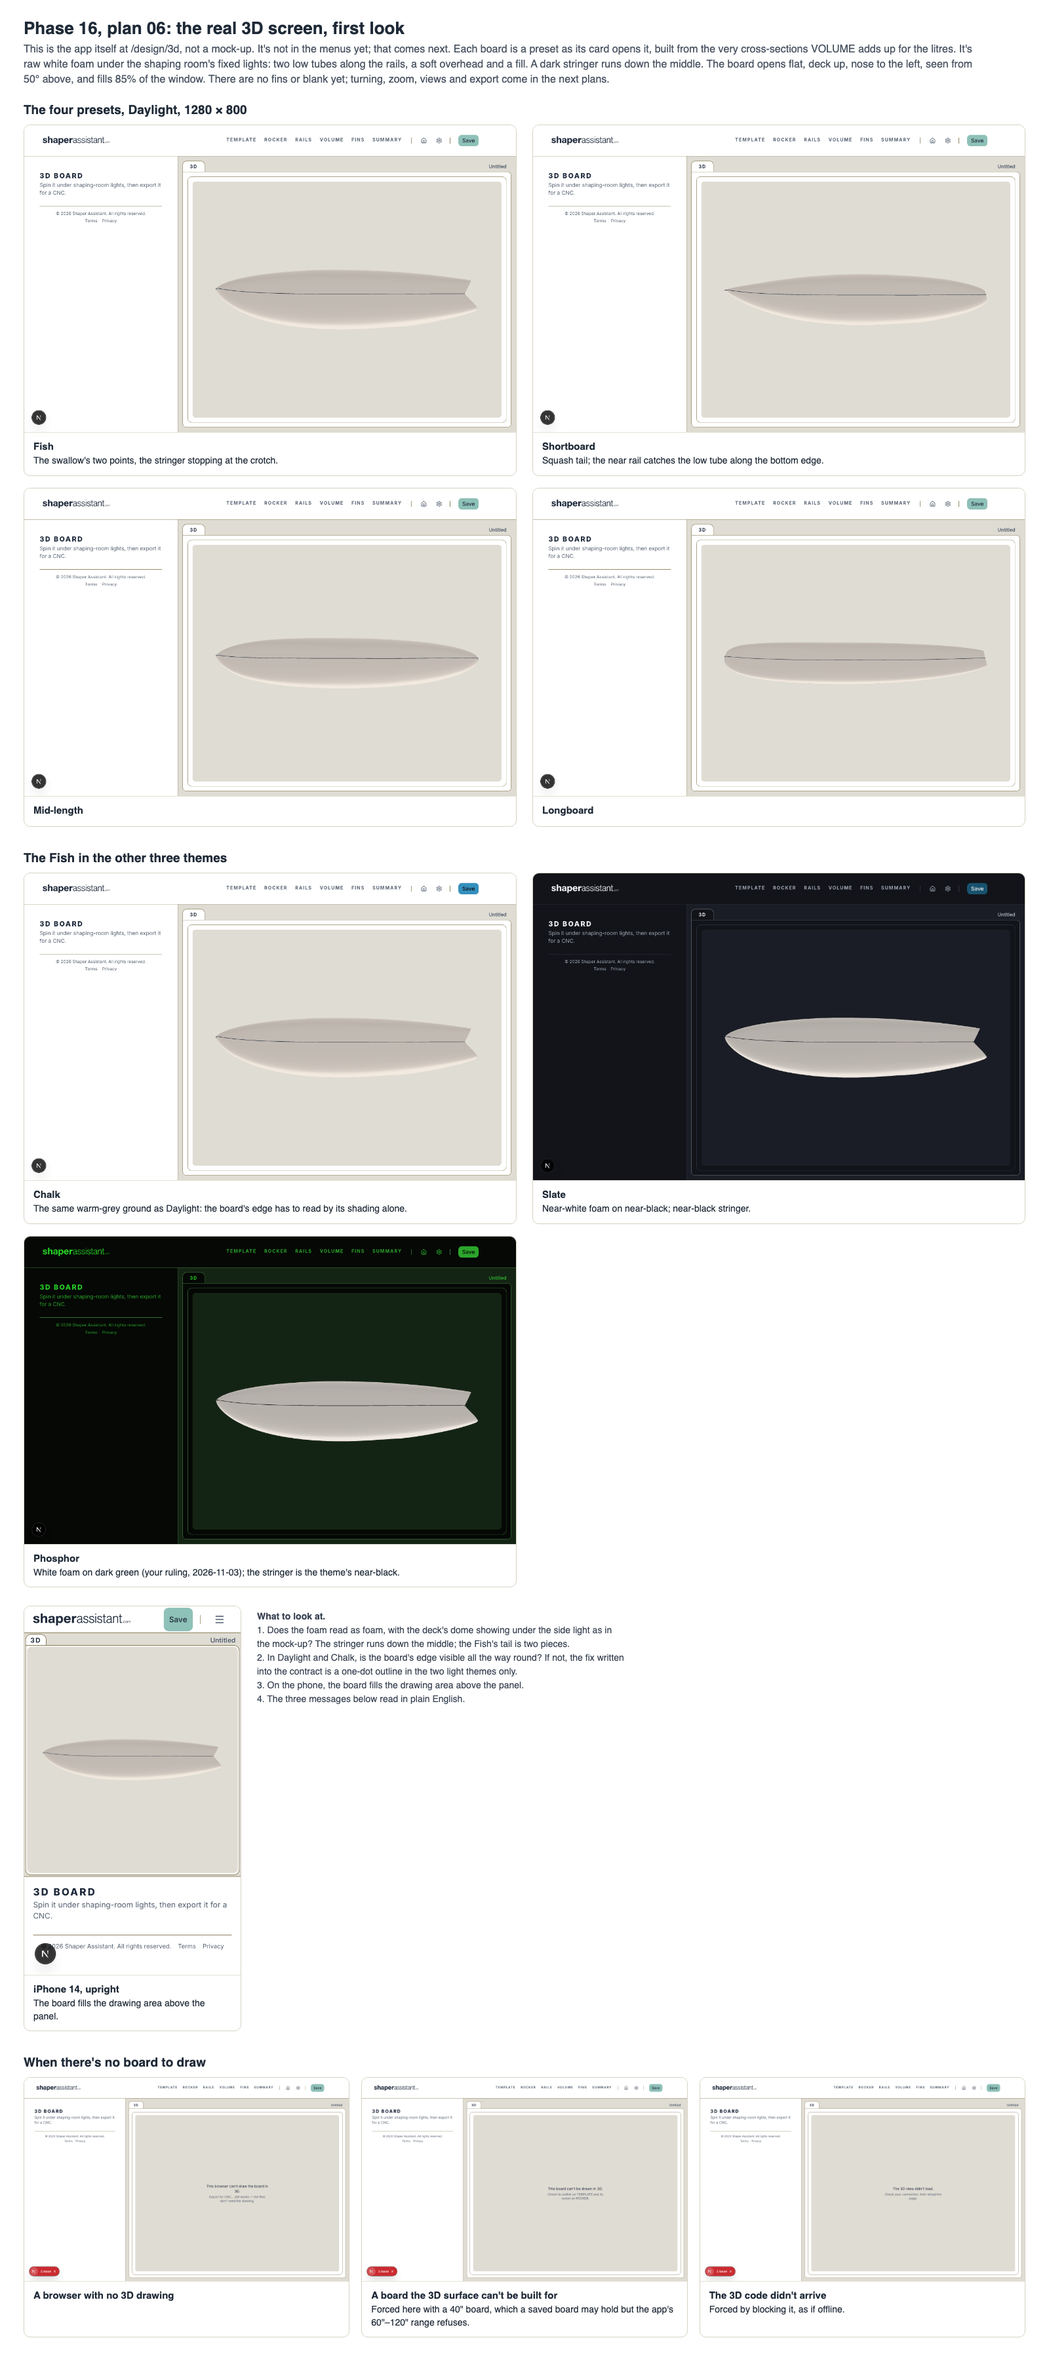
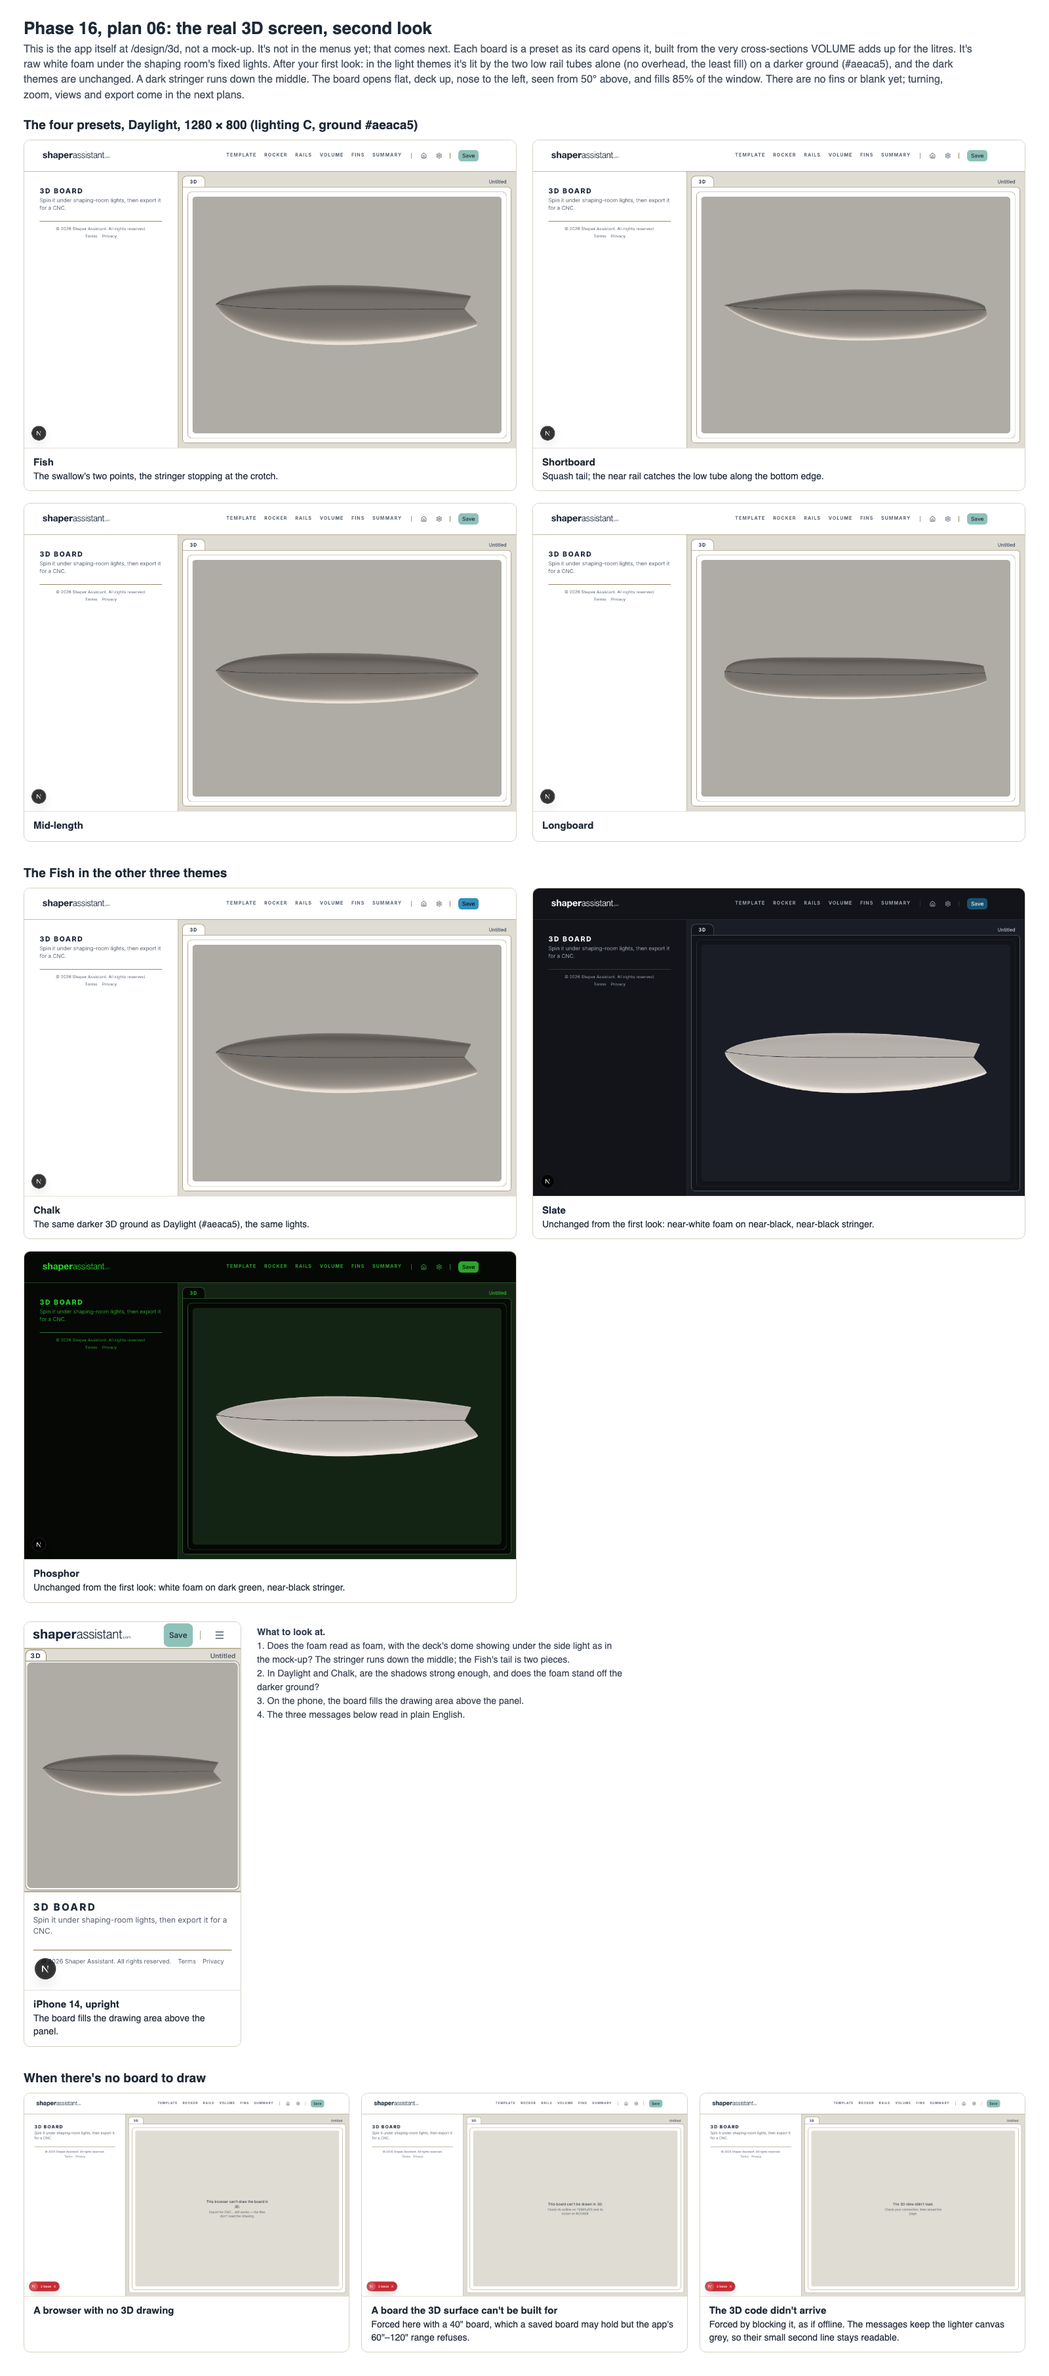
The 3D board's shadows are stronger, lit by the side tubes alone, and the light themes give it a darker ground
- In Daylight and Chalk the board is lit by the two low rail tubes alone: no
  overhead light, the least fill and a softer far tube. The deck's dome and the
  rail's roll now show their shadow side.
- Behind the board those two themes use a darker warm grey (#aeaca5, 22% under
  the canvas grey), so the white foam stands off it. The far rail's edge sits
  59-77 levels under the ground all round, the near rail 34-56 over it, so the
  one-dot outline isn't needed.
- Slate and Phosphor are exactly as you approved them: same lights, same ground,
  pixel for pixel.
- The "can't draw" messages stay on the lighter canvas grey, so their small
  second line stays readable.
- The four lighting settings tried and the two ground tones are in a comparison
  picture beside the re-shot first look.

diff --git a/components/3d/board-scene.ts b/components/3d/board-scene.ts
@@ -52,7 +52,7 @@ import {
 
 /** The theme's colours the scene paints with, read from the page's tokens (any CSS colour three can parse). */
 export interface SceneColours {
-  /** The ground the canvas clears to: `--surf-canvas`. */
+  /** The ground the canvas clears to: `--surf-3d-ground` (darker than the canvas in the light themes). */
   canvas: string;
   /** Raw foam before the lights: `--surf-foam`. */
   foam: string;
@@ -62,6 +62,8 @@ export interface SceneColours {
   inkMuted: string;
   /** The blank's outline (16-11): `--outline-blank-line`. */
   blankLine: string;
+  /** Whether the theme is a light or a dark one (its `color-scheme`): it picks the room's lighting. */
+  scheme: "light" | "dark";
 }
 
 /** Everything the scene needs to draw one board. */
@@ -96,29 +98,61 @@ const STRINGER_LIFT_MM = 0.3;
 const CAMERA_STANDOFF_MM = 4000;
 
 /**
- * The lights' strengths (UI-SPEC §3: near rail 1.0, far rail 0.7, overhead 0.45, fill 0.2) times one key level,
- * and their colours. Three's lights are in physical units, so a white surface square to a light of strength π
- * shows its own colour; the key was set from pictures so the deck reads a tone under the light ground and the
- * near rail a tone over it.
+ * The room's lighting: each light's strength as a share of one key level, and the tone curve's exposure. Three's
+ * lights are in physical units, so a white surface square to a light of strength π shows its own colour. The
+ * contract's starting shares (UI-SPEC §3) were near rail 1.0, far rail 0.7, overhead 0.45 and fill 0.2. There is no
+ * hemisphere or floor-bounce light in this room; the fill is the only light that reaches a face turned away from
+ * every tube.
+ *
+ * The named settings are the candidates shot for the founder (16-06, the first look and the second). `ROOM_LIGHTING`
+ * says which one each kind of theme uses. On a development server only, a picture script may pick another by name through
+ * `window.__shaper3dLighting`, so candidates can be shot without editing the app; a production build never reads it.
  */
-const KEY = 2.9;
+export interface RoomLighting {
+  key: number;
+  nearRail: number;
+  farRail: number;
+  overhead: number;
+  fill: number;
+  exposure: number;
+}
+
+export const LIGHTING_CANDIDATES = {
+  /** The first look (2026-11-04): the overhead lowered from 0.45 to 0.2 so the far rail's edge read. */
+  firstLook: { key: 2.9, nearRail: 1.0, farRail: 0.7, overhead: 0.2, fill: 0.2, exposure: 1 },
+  /** A: the overhead off — the two low rail tubes and the fill alone. */
+  A: { key: 2.9, nearRail: 1.0, farRail: 0.7, overhead: 0, fill: 0.2, exposure: 1 },
+  /** B: A with the fill lowered, so the shadow side of the dome and the rail's roll go darker. */
+  B: { key: 2.9, nearRail: 1.0, farRail: 0.7, overhead: 0, fill: 0.08, exposure: 1 },
+  /** C: B with the far tube lowered too (this room has no floor bounce to lower): the strongest shadowing. */
+  C: { key: 2.9, nearRail: 1.0, farRail: 0.45, overhead: 0, fill: 0.04, exposure: 1 },
+} as const satisfies Record<string, RoomLighting>;
+
 /**
- * The overhead light, lowered from the contract's starting 0.45 to 0.2 of the key after the first pictures
- * (UI-SPEC open item 1: "tune the overhead strength first"). At 0.45 the overhead lit the deck to the light
- * themes' ground tone, so the far rail's edge disappeared against it. At 0.2 the deck sits a tone under the
- * ground and the near rail a tone over it, as in the mock-up the founder called right.
+ * The lighting each kind of theme uses (the founder's second look, 2026-11-04: "The shadowing can be stronger.
+ * Maybe no overhead light just the side lights." and "the dark themes look good"). The light themes take C, the rail
+ * tubes alone with the least fill, on their darker 3D ground. The dark themes keep the first look's lighting
+ * exactly, because C would have turned their deck from a near-white to a mid grey.
  */
-const OVERHEAD = 0.2;
-const LIGHTS = {
-  nearRail: { strength: 1.0 * KEY, colour: "#fff4e8" },
-  farRail: { strength: 0.7 * KEY, colour: "#fff4e8" },
-  overhead: { strength: OVERHEAD * KEY, colour: "#ffeedd" },
-  fill: { strength: 0.2 * KEY, colour: "#ffffff" },
-} as const;
+export const ROOM_LIGHTING: Readonly<Record<SceneColours["scheme"], RoomLighting>> = {
+  light: LIGHTING_CANDIDATES.C,
+  dark: LIGHTING_CANDIDATES.firstLook,
+};
+
+/** The tubes' colours: neutral white near 5000 K for the rail tubes, a little warmer overhead (UI-SPEC §3). */
+const LIGHT_COLOURS = { rail: "#fff4e8", overhead: "#ffeedd", fill: "#ffffff" } as const;
+
+/** The lighting in force for a theme: `ROOM_LIGHTING`'s, or on a development server a candidate a picture script named. */
+function lightingInForce(scheme: SceneColours["scheme"]): RoomLighting {
+  if (process.env.NODE_ENV === "production") return ROOM_LIGHTING[scheme];
+  const name = (globalThis as { __shaper3dLighting?: unknown }).__shaper3dLighting;
+  return typeof name === "string" && name in LIGHTING_CANDIDATES
+    ? LIGHTING_CANDIDATES[name as keyof typeof LIGHTING_CANDIDATES]
+    : ROOM_LIGHTING[scheme];
+}
+
 /** The rail lights' height above the deck's plane (UI-SPEC §3). */
 const RAIL_LIGHT_ELEVATION_DEG = 8;
-/** Exposure for the neutral tone curve: the brightest lit foam lands just short of white, nothing glows. */
-const EXPOSURE = 1;
 
 const NOOP_HANDLE: BoardSceneHandle = {
   setBoard() {},
@@ -190,7 +224,8 @@ export function mountBoardScene(
   }
   renderer.setPixelRatio(Math.min(window.devicePixelRatio || 1, 2));
   renderer.toneMapping = NeutralToneMapping;
-  renderer.toneMappingExposure = EXPOSURE;
+  const lighting = lightingInForce(input.colours.scheme);
+  renderer.toneMappingExposure = lighting.exposure;
 
   const scene = new Scene();
   const axes = roomCameraAxes();
@@ -203,13 +238,13 @@ export function mountBoardScene(
   // The room's lights, placed once (D-10). A directional light shines from its position toward its target, the
   // room's centre. The near rail is the room's +Z side, the camera's side.
   const e = (RAIL_LIGHT_ELEVATION_DEG * Math.PI) / 180;
-  const nearRail = new DirectionalLight(LIGHTS.nearRail.colour, LIGHTS.nearRail.strength);
+  const nearRail = new DirectionalLight(LIGHT_COLOURS.rail, lighting.nearRail * lighting.key);
   nearRail.position.set(0, Math.sin(e), Math.cos(e));
-  const farRail = new DirectionalLight(LIGHTS.farRail.colour, LIGHTS.farRail.strength);
+  const farRail = new DirectionalLight(LIGHT_COLOURS.rail, lighting.farRail * lighting.key);
   farRail.position.set(0, Math.sin(e), -Math.cos(e));
-  const overhead = new DirectionalLight(LIGHTS.overhead.colour, LIGHTS.overhead.strength);
+  const overhead = new DirectionalLight(LIGHT_COLOURS.overhead, lighting.overhead * lighting.key);
   overhead.position.set(0, 1, 0);
-  const fill = new AmbientLight(LIGHTS.fill.colour, LIGHTS.fill.strength);
+  const fill = new AmbientLight(LIGHT_COLOURS.fill, lighting.fill * lighting.key);
   scene.add(nearRail, farRail, overhead, fill);
 
   // The board: `turned` carries the turn and the place in front of the camera; `centred` moves the surface so it

diff --git a/e2e/three-d-screen.spec.ts b/e2e/three-d-screen.spec.ts
@@ -80,6 +80,21 @@ async function keepBoard(page: Page, presetName: string, lengthMm?: number) {
   await page.addInitScript(([key, value]) => window.localStorage.setItem(key, value), [OPEN_BOARD_STORAGE_KEY, raw] as const);
 }
 
+/** The ground the 3D board is drawn on: the theme's `--surf-3d-ground`. */
+async function threeDGround(page: Page) {
+  return page.evaluate(() => getComputedStyle(document.documentElement).getPropertyValue("--surf-3d-ground").trim());
+}
+
+/** A pixel a little in from the canvas's top-left corner (its clear colour, clear of the rounded edge) is `hex`. */
+async function expectCornerIs(host: Locator, hex: string) {
+  const { rgba, width } = await hostPixels(host);
+  const at = 4 * (10 * width + 10);
+  const [r, g, b] = hexToRgb(hex);
+  expect(Math.abs(rgba[at] - r)).toBeLessThanOrEqual(2);
+  expect(Math.abs(rgba[at + 1] - g)).toBeLessThanOrEqual(2);
+  expect(Math.abs(rgba[at + 2] - b)).toBeLessThanOrEqual(2);
+}
+
 /** The canvas host's picture, decoded. */
 async function hostPixels(host: Locator) {
   return decodePng(await host.screenshot());
@@ -106,7 +121,7 @@ test.describe("the 3D screen", () => {
   test("2. the board is really drawn: much of the canvas is unlike its ground", async ({ page }) => {
     await page.goto("/design/3d");
     const host = await waitForBoard(page);
-    const ground = await page.evaluate(() => getComputedStyle(document.documentElement).getPropertyValue("--surf-canvas").trim());
+    const ground = await threeDGround(page);
     const { rgba, width, height } = await hostPixels(host);
     const unlike = countUnlike(rgba, hexToRgb(ground), 6);
     expect(unlike / (width * height)).toBeGreaterThan(0.02);
@@ -121,6 +136,17 @@ test.describe("the 3D screen", () => {
     await page.goto("/design/3d");
     await expectMessage(page, THREE_D_COPY.browserCantDraw, "no-webgl");
     await expect(boardHost(page).locator("canvas")).toHaveCount(0);
+    // A message sits on the canvas's own ground, where its muted second line keeps the contract's contrast — not on
+    // the darker ground behind the board.
+    const [messageGround, canvasToken] = await page.evaluate(() => {
+      const probe = document.createElement("div");
+      probe.style.background = "var(--surf-canvas)";
+      document.body.appendChild(probe);
+      const token = getComputedStyle(probe).backgroundColor;
+      probe.remove();
+      return [getComputedStyle(document.querySelector("[data-canvas-message]")!).backgroundColor, token];
+    });
+    expect(messageGround).toBe(canvasToken);
   });
 
   test("4. if the drawing code never arrives, the screen says it didn't load", async ({ page, context }) => {
@@ -223,14 +249,20 @@ test.describe("the 3D screen", () => {
     await page.addInitScript(([key, theme]) => window.localStorage.setItem(key, theme), [THEME_STORAGE_KEY, "slate"] as const);
     await page.goto("/design/3d");
     const host = await waitForBoard(page);
-    const ground = await page.evaluate(() => getComputedStyle(document.documentElement).getPropertyValue("--surf-canvas").trim());
-    const { rgba, width } = await hostPixels(host);
-    // A pixel a little in from the top-left corner: the canvas's clear colour, clear of the rounded edge.
-    const at = 4 * (10 * width + 10);
-    const [r, g, b] = hexToRgb(ground);
-    expect(Math.abs(rgba[at] - r)).toBeLessThanOrEqual(2);
-    expect(Math.abs(rgba[at + 1] - g)).toBeLessThanOrEqual(2);
-    expect(Math.abs(rgba[at + 2] - b)).toBeLessThanOrEqual(2);
+    await expectCornerIs(host, await threeDGround(page));
+  });
+
+  test("11. in a light theme the board sits on the darker 3D ground, not the canvas's warm grey", async ({ page }) => {
+    await page.addInitScript(([key, theme]) => window.localStorage.setItem(key, theme), [THEME_STORAGE_KEY, "daylight"] as const);
+    await page.goto("/design/3d");
+    const host = await waitForBoard(page);
+    const [ground, canvas] = await page.evaluate(() => {
+      const style = getComputedStyle(document.documentElement);
+      return [style.getPropertyValue("--surf-3d-ground").trim(), style.getPropertyValue("--surf-canvas").trim()];
+    });
+    const sum = (hex: string) => hexToRgb(hex).reduce((a, b) => a + b, 0);
+    expect(sum(ground)).toBeLessThan(sum(canvas));
+    await expectCornerIs(host, ground);
   });
 
   test("9. moving Hard Edge Ends At on RAILS changes the 3D board (D-30: one value, read by both)", async ({ page }, testInfo) => {

diff --git a/app/globals.css b/app/globals.css
@@ -256,6 +256,7 @@
   --ramp-daylight-ground: #ffffff;
   --ramp-daylight-sidebar: #ffffff;
   --ramp-daylight-canvas: #dfdcd3;
+  --ramp-daylight-3d-ground: #aeaca5; /* the 3D board's ground — the canvas warm grey, 22% darker, so the white foam stands off it */
   --ramp-daylight-tab-active: #ffffff;
   --ramp-daylight-panel: #ffffff;
   --ramp-daylight-well: #dfdcd3;
@@ -297,6 +298,7 @@
   --ramp-chalk-ground: #ffffff;
   --ramp-chalk-sidebar: #ffffff;
   --ramp-chalk-canvas: #dfdcd3;
+  --ramp-chalk-3d-ground: #aeaca5; /* the 3D board's ground — the canvas warm grey, 22% darker, so the white foam stands off it */
   --ramp-chalk-tab-active: #ffffff;
   --ramp-chalk-panel: #ffffff;
   --ramp-chalk-well: #dfdcd3;
@@ -328,6 +330,7 @@
   --ramp-slate-ground: #12141a;
   --ramp-slate-sidebar: #12141a;
   --ramp-slate-canvas: #1a1d25;
+  --ramp-slate-3d-ground: #1a1d25; /* the 3D board's ground — the same as the canvas: the dark themes already set the foam off */
   --ramp-slate-tab-active: #12141a;
   --ramp-slate-panel: #12141a;
   --ramp-slate-well: #1b1f26;
@@ -360,6 +363,7 @@
   --ramp-phosphor-ground: #050805;
   --ramp-phosphor-sidebar: #050805;
   --ramp-phosphor-canvas: #142414;
+  --ramp-phosphor-3d-ground: #142414; /* the 3D board's ground — the same as the canvas: the dark themes already set the foam off */
   --ramp-phosphor-tab-active: #050805;
   --ramp-phosphor-panel: #050805;
   --ramp-phosphor-well: #050805;
@@ -435,6 +439,8 @@
   /* The 3D board's raw foam and anything drawn on it (Phase 16, D-11): white in every theme, the founder's ruling. */
   --surf-foam: var(--ramp-daylight-ground);
   --surf-on-foam: var(--ramp-daylight-ink);
+  /* The ground behind the 3D board (Phase 16, the founder's second look): darker than the canvas in the light themes. */
+  --surf-3d-ground: var(--ramp-daylight-3d-ground);
 }
 
 /* DEFAULT DARK — Slate, for an OS set to dark with no explicit choice. */
@@ -468,6 +474,8 @@
     /* The 3D board's raw foam and anything drawn on it (Phase 16, D-11): white in every theme, the founder's ruling. */
     --surf-foam: var(--ramp-slate-ink);
     --surf-on-foam: var(--ramp-slate-ground);
+    /* The ground behind the 3D board (Phase 16, the founder's second look): darker than the canvas in the light themes. */
+    --surf-3d-ground: var(--ramp-slate-3d-ground);
   }
 }
 
@@ -501,6 +509,8 @@
   /* The 3D board's raw foam and anything drawn on it (Phase 16, D-11): white in every theme, the founder's ruling. */
   --surf-foam: var(--ramp-daylight-ground);
   --surf-on-foam: var(--ramp-daylight-ink);
+  /* The ground behind the 3D board (Phase 16, the founder's second look): darker than the canvas in the light themes. */
+  --surf-3d-ground: var(--ramp-daylight-3d-ground);
 }
 
 /* Chalk — explicit. */
@@ -533,6 +543,8 @@
   /* The 3D board's raw foam and anything drawn on it (Phase 16, D-11): white in every theme, the founder's ruling. */
   --surf-foam: var(--ramp-chalk-ground);
   --surf-on-foam: var(--ramp-chalk-ink);
+  /* The ground behind the 3D board (Phase 16, the founder's second look): darker than the canvas in the light themes. */
+  --surf-3d-ground: var(--ramp-chalk-3d-ground);
 }
 
 /* Slate — explicit. */
@@ -565,6 +577,8 @@
   /* The 3D board's raw foam and anything drawn on it (Phase 16, D-11): white in every theme, the founder's ruling. */
   --surf-foam: var(--ramp-slate-ink);
   --surf-on-foam: var(--ramp-slate-ground);
+  /* The ground behind the 3D board (Phase 16, the founder's second look): darker than the canvas in the light themes. */
+  --surf-3d-ground: var(--ramp-slate-3d-ground);
 }
 
 /* Phosphor — explicit. */
@@ -597,6 +611,8 @@
   /* The 3D board's raw foam and anything drawn on it (Phase 16, D-11): white in every theme, the founder's ruling. */
   --surf-foam: var(--ramp-slate-ink);
   --surf-on-foam: var(--ramp-phosphor-ground);
+  /* The ground behind the 3D board (Phase 16, the founder's second look): darker than the canvas in the light themes. */
+  --surf-3d-ground: var(--ramp-phosphor-3d-ground);
 }
 
 /* ---------------------------------------------------------------------------

diff --git a/components/3d/three-d-screen.tsx b/components/3d/three-d-screen.tsx
@@ -37,7 +37,8 @@ import { THREE_D_COPY } from "./three-d-copy";
 
 type CanvasState = "loading" | BoardSceneState | "cant-build" | "didnt-load";
 
-/** The theme's colours as `#rrggbb` (any CSS colour a token holds, `color-mix` included), read once. */
+/** The theme's colours as `#rrggbb` (any CSS colour a token holds, `color-mix` included), and whether it is a light
+ * or a dark theme — read once. */
 function readSceneColours(): SceneColours {
   const style = getComputedStyle(document.documentElement);
   const probe = document.createElement("canvas").getContext("2d", { willReadFrequently: true });
@@ -52,18 +53,21 @@ function readSceneColours(): SceneColours {
     return `#${[r, g, b].map((c) => c.toString(16).padStart(2, "0")).join("")}`;
   };
   return {
-    canvas: resolve("--surf-canvas", "#dfdcd3"),
+    canvas: resolve("--surf-3d-ground", "#aeaca5"),
     foam: resolve("--surf-foam", "#ffffff"),
     onFoam: resolve("--surf-on-foam", "#1f2a3b"),
     inkMuted: resolve("--surf-ink-muted", "#566171"),
     blankLine: resolve("--outline-blank-line", "#566171"),
+    // Every theme block sets exactly one `color-scheme`; a theme that ever said "light dark" would count as dark.
+    scheme: style.colorScheme.trim() === "light" ? "light" : "dark",
   };
 }
 
 /** A message centred on the canvas: what happened, then what to do (UI-SPEC §8). */
 function CanvasMessage({ line1, line2 }: { line1: string; line2: string }) {
   return (
-    // On the canvas's own ground, covering the host (and any canvas a lost context left behind), so the host keeps
+    // On the canvas's ground (`--surf-canvas`, not the darker ground behind the board: the muted second line needs
+    // the canvas's 4.58:1 — on the 3D ground it would fall to 2.76:1), covering the host (and any canvas a lost context left behind), so the host keeps
     // its spoken name while the message shows.
     <div
       className="pointer-events-none absolute inset-0 flex items-center justify-center rounded-md bg-surf-canvas"
@@ -201,7 +205,7 @@ export function ThreeDScreen() {
               aria-roledescription={THREE_D_COPY.canvasRole}
               aria-label={THREE_D_COPY.canvasName(name)}
               aria-busy={state === "loading" ? true : undefined}
-              className="focus-ring-accent absolute inset-0 touch-none overflow-hidden rounded-md bg-surf-canvas"
+              className="focus-ring-accent absolute inset-0 touch-none overflow-hidden rounded-md bg-[var(--surf-3d-ground)]"
             />
             {message && <CanvasMessage line1={message.line1} line2={message.line2} />}
           </div>
